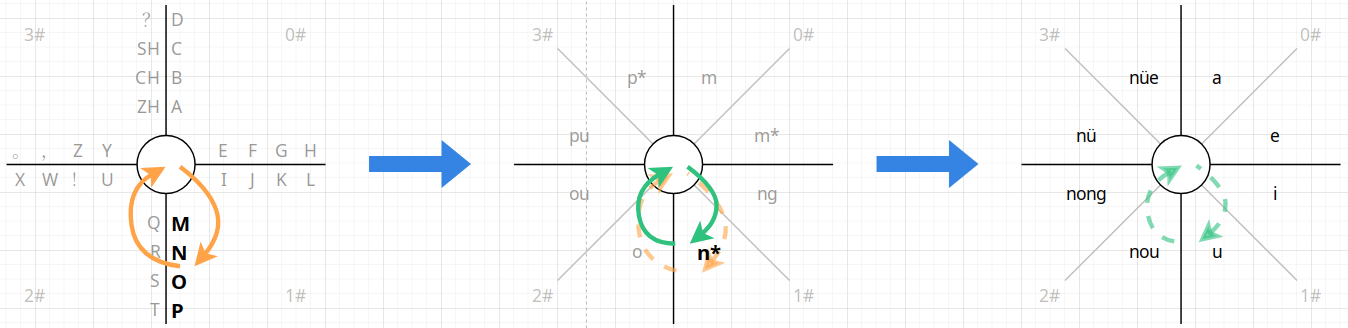
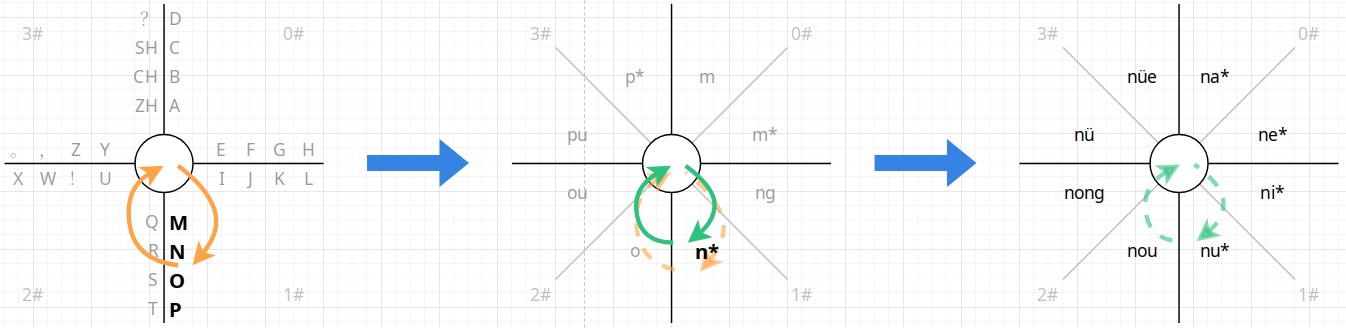
Docs: 更新《十字型输入的交互设计》

diff --git a/docs/design/cross-mode.md b/docs/design/cross-mode.md
@@ -242,20 +242,75 @@ X 型输入更方便、更省力、更准确。
 
 ### 拼音输入模式
 
+当前以拼音**全拼**输入为例，说明拼音输入的交互逻辑。
+
 ![](./cross-mode/70-pinyin-input-step-1.png)
 
 ![](./cross-mode/70-pinyin-input-step-2.png)
 
-- 根据拼音组合的特点，对其字母组合进行合适的拆分再动态布局，以最小的滑行次数完成输入
-- 尽量按声母、韵母顺序布局，而不是使用频率或拼音数量
-- 将拼音的声母作为第一级布局，再将声母之后仅有的韵母进行拆分
-- 布局的韵母最好能够滑行一次便完成输入，所以，优先将其放置在布局的第一维度中，
-  再配合滑行方向确定或展开韵母的其他组合
+全拼拼音由声母和韵母组成，其中，声母基本对应英文字母表，而韵母则由一到四个字母组成。
+而一个声母最多可与韵母组成 26 个拼音，拼音总数则达到数百个。
+所以，无法在十字型输入的初始面板中布局全部拼音，需要采用多级**布局展开**，
+以便于将拼音逐级分解，从而完成对全部拼音的输入布局。
 
+已知声母 `n` 的拼音组合如下：
+
+| 韵母首字母 | 韵母组合 |
+| -- | -- |
+| g | ng |
+| a | na, nai, nan, nao, nang |
+| e | ne, nei, nen, neng |
+| i | ni, nie, nin, niu, nian, niao, ning, niang |
+| u | nu, nun, nuo, nuan |
+| o | nou, nong |
+| ü | nü, nüe |
+
+下面以输入拼音 `niang` 为例：
+
+![](./cross-mode/75-pinyin-input-active-zone.png)
+
+> 注：拼音键盘的初始布局尽量与拉丁键盘的初始布局一致，从而降低适应成本。
+
+在初始布局中，选中 `1#` 分区右侧边的字符，并将其做布局展开：
+
+![](./cross-mode/75-pinyin-input-expand-zone-level-1.png)
+
+当前为**第一级**布局展开，由于待展开字符只有四个，而布局展开有八个位置，
+所以，暂且规定，沿顺时针方向的分区左侧边直接放置只有一个组合的拼音，
+或者使用频率最高的拼音，其余的拼音组合则放在分区右侧边，并以 `声母 + *`
+的形式表示其拼音组合需继续展开，如 `n*`。
+
+继续选中 `n*` 以展开其拼音组合：
+
+![](./cross-mode/75-pinyin-input-expand-zone-level-2.png)
+
+此为**第二级**布局展开，其以韵母组合中的第一个字母，沿顺时针方向按
+`a, e, i, u, o, ü` 顺序依次放置韵母组合，其中，`a, e, i, u`
+均放置在分区侧边，剩下的，若只有一个或两个韵母组合，则直接放置整个韵母，
+不再做展开，比如上图中的 `nou`、`nong`、`nü`、`nüe`。
+
+接下来，选中 `ni*` 以展开其韵母组合：
+
+![](./cross-mode/75-pinyin-input-active-zone-level-2.png)
+
+![](./cross-mode/75-pinyin-input-expand-zone-level-3.png)
+
+此为**第三级**布局展开，由于以 `ni` 开头的拼音组合正好只有八个，
+因此，可以全部布局到八个分区侧边中。其布局规则则以去掉 `ni` 后的首字母为准，
+按照 `a, e, i, o, n` 的顺序，沿顺时针方向依次放置。
+
+最后，选中目标拼音 `niang` 即可：
+
+![](./cross-mode/75-pinyin-input-end.png)
+
+分析全部拼音组合后，可以发现，输入一个完整的拼音，最少需要两次滑行，
+即，绘制两个椭圆轨迹，最多则需要四次滑行。
+
+<!--
 ```log
 n |27| n,ng, na,nai,nan,nao,nang, ne,nei,nen,neng, ni,nie,nin,niu,nian,niao,ning,niang, nou,nong, nu,nun,nuo,nuan, nü,nüe
 
-=> 布局的第一维度：[ng:1], [na:1, na*:4], [ne:1, ne*:3], [ni:1, ni*:7], [no*:2, nu*:4, nü*:2]
+=> 布局的第一维度：[ng:1], [na*:5], [ne*:4], [ni*:8], [nu*:4], [nou:1], [nong:1], [nü:1], [nüe:1]
 => 注：去掉 n，其与 ng 对应的字相同，且 ng 的读音更多
 
 l |26| la,lai,lan,lao,lang, le,lei,leng, li,lia,lie,lin,liu,lian,liao,ling,liang, lo,lou,long, lu,lun,luo,luan, lü,lüe
@@ -278,6 +333,7 @@ p|17|pa,pai,pan,pao,pang, pei,pen,peng, pi,pie,pin,pian,piao,ping, po,pou, pu
 
 => 布局的第一维度：[pu:1], [pa:1, pa*:4], [pe:1, pe*:2], [pi:1, pi*:5], [po:1, pou:1]
 ```
+-->
 
 ### 盲打输入模式
 
